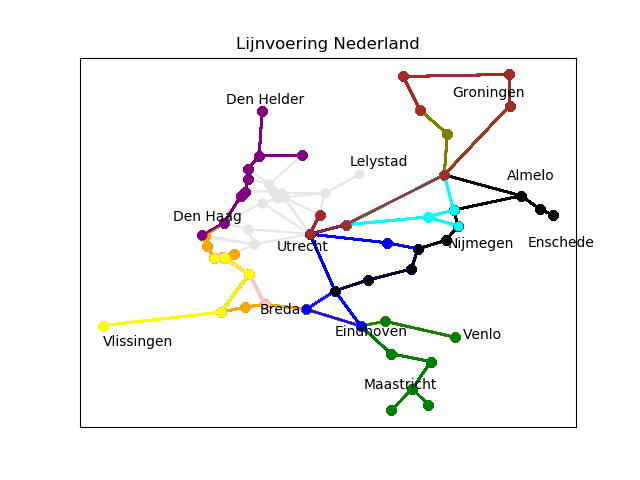
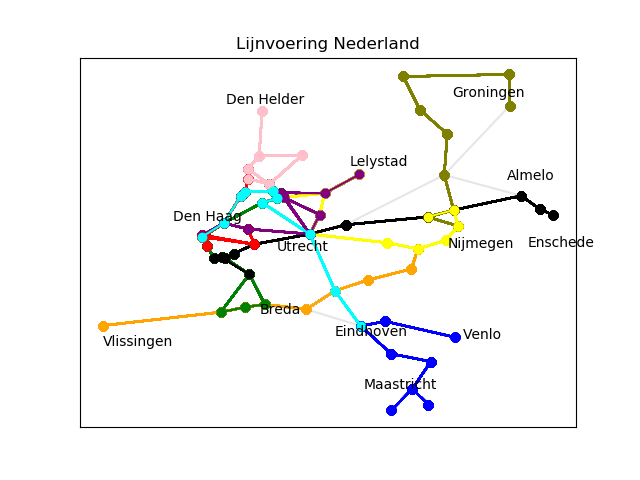
'h'

diff --git a/RailNL/Code/algo/hillclimber3.py b/RailNL/Code/algo/hillclimber3.py
@@ -1,0 +1,110 @@
+import functies.hill2
+import functies.scorefunctie
+import functies.minuten
+import copy
+
+
+def hillclimber3(alle_trajecten1, alle_tijdsduur1, totale_tijdsduur1, trajecten_algemeen1, graph, sporen1, MAX, TOTAAL_SPOREN, score1, HILL2, verbindingen):
+
+    aantal_trajecten = len(alle_trajecten1)
+    totaal_tijd1 = functies.minuten.minuten(alle_tijdsduur1)
+    
+    alle_tijdsduur_def = copy.deepcopy(alle_tijdsduur1)
+    alle_trajecten_def = copy.deepcopy(alle_trajecten1)
+    trajecten_algemeen_def = copy.deepcopy(trajecten_algemeen1)
+
+    totaal_tijd_def = copy.deepcopy(totale_tijdsduur1)
+
+    alle_trajecten2 = copy.deepcopy(alle_trajecten1)
+    
+    sporen = copy.deepcopy(sporen1)
+    
+    trajecten_algemeen = copy.deepcopy(trajecten_algemeen1)
+    alle_tijdsduur = copy.deepcopy(alle_tijdsduur1)
+    
+    nieuw_alle_trajecten = []
+    nieuw_alle_tijden = []
+    
+    
+    for i in range(aantal_trajecten):
+    
+        
+        
+        eigen_traject = copy.deepcopy(alle_trajecten2[i])
+            
+        nieuwe_tijdsduur = copy.deepcopy(alle_tijdsduur[i])
+        
+        score_oud = functies.scorefunctie.score(eigen_traject, nieuwe_tijdsduur, sporen, TOTAAL_SPOREN)
+        
+        sporen1 = copy.deepcopy(sporen)
+
+        for _ in range(HILL2):
+        
+
+            begin_station = alle_trajecten2[i][-1]
+            nieuw_eigen_traject = copy.deepcopy(alle_trajecten2[i])
+            nieuw_nieuw_tijdsduur = copy.deepcopy(alle_tijdsduur[i])
+            eind_sporen = copy.deepcopy(sporen1)
+
+            
+            while (nieuw_nieuw_tijdsduur < MAX):
+            
+                beste_optie = functies.hill2.opties_randomconstr(eind_sporen, graph, trajecten_algemeen, begin_station, nieuw_eigen_traject)
+                
+                nieuw_nieuw_tijdsduur = nieuw_nieuw_tijdsduur + beste_optie[1]
+                
+                eind_sporen = functies.hill2.spoor_toevoegen(eind_sporen, begin_station, beste_optie[0], nieuw_nieuw_tijdsduur)    
+                
+                begin_station = functies.hill2.actuele_station(beste_optie[0])
+                
+                functies.hill2.volgend_spoor(beste_optie[0], nieuw_eigen_traject)
+
+                
+            if nieuw_nieuw_tijdsduur > MAX:
+                
+
+                functies.hill2.pop(trajecten_algemeen, trajecten_algemeen1, eind_sporen, nieuw_eigen_traject)
+
+                nieuw_nieuw_tijdsduur = nieuw_nieuw_tijdsduur - beste_optie[1]
+
+        
+        
+        
+        
+            score_nieuw = functies.scorefunctie.score(nieuw_eigen_traject, nieuw_nieuw_tijdsduur, eind_sporen, TOTAAL_SPOREN)
+        
+        
+            if score_nieuw > score_oud :
+
+                score_oud = score_nieuw
+                eigen_traject = nieuw_eigen_traject
+                
+                sporen = eind_sporen
+                
+                nieuwe_tijdsduur = nieuw_nieuw_tijdsduur
+        
+        
+        
+        nieuw_alle_trajecten.append(eigen_traject)
+        nieuw_alle_tijden.append(nieuwe_tijdsduur)
+
+              
+              
+    trajecten = functies.opschonen.opschonen(nieuw_alle_trajecten, nieuw_alle_tijden, verbindingen)
+
+    nieuw_alle_trajecten = trajecten[0] 
+    nieuw_alle_tijden = trajecten[1] 
+     
+    totaal_tijd = functies.minuten.minuten(nieuw_alle_tijden)
+    score = functies.scorefunctie.score(nieuw_alle_trajecten, totaal_tijd, sporen, TOTAAL_SPOREN)
+
+    
+    return nieuw_alle_trajecten, nieuw_alle_tijden, score, sporen, trajecten_algemeen, totaal_tijd 
+    
+    
+
+
+
+
+
+

diff --git a/RailNL/Code/main2.py b/RailNL/Code/main2.py
@@ -12,7 +12,7 @@ import algo.hillclimber
 import inladen.inladen
 import time
 import visualisatie.visualisatie
-import algo.hillclimber2
+import algo.hillclimber3
 
 
 # Houd de tijd bij. 
@@ -23,13 +23,15 @@ start_time = time.clock()
 
 # AANTAL MINUTEN
 
-HILL = 200000
+HILL = 100000
 
-HILL2 = 500000
+HILL2 = 10000
 
 # Aantal minuten.
-
 MAX = 180
+
+MAX2 = 180
+
 
 
 # Aantal trajecten.
@@ -120,7 +122,7 @@ print(time.clock() - start_time, "seconden")
 
 start_time1 = time.clock()
 
-nieuw_traject = algo.hillclimber2.hillclimber2(alle_trajecten, alle_tijdsduur, totale_tijdsduur, trajecten_algemeen, graph, sporen, MAX, TOTAAL_SPOREN, score, HILL2, verbindingen)
+nieuw_traject = algo.hillclimber3.hillclimber3(alle_trajecten, alle_tijdsduur, totale_tijdsduur, trajecten_algemeen, graph, sporen, MAX2, TOTAAL_SPOREN, score, HILL2, verbindingen)
 
 def_score = nieuw_traject[2]
 def_trajecten = nieuw_traject[0]
@@ -128,6 +130,7 @@ def_tijden = nieuw_traject[1]
 def_sporen = nieuw_traject[3]
 def_trajecten_algemeen = nieuw_traject[4]
 def_totaal_tijd = nieuw_traject[5]
+
 
 
 for i in range(len(def_trajecten)):

diff --git a/RailNL/Code/test.py b/RailNL/Code/test.py
@@ -11,7 +11,7 @@ import functies.minuten
 import algo.hillclimber
 import inladen.inladen
 import time
-import visualisatie.lijnvoeringtest
+import visualisatie.visualisatie
 
 # Houd de tijd bij. 
 start_time = time.clock()
@@ -21,13 +21,13 @@ start_time = time.clock()
 
 # AANTAL MINUTEN
 
-HILL = 1000000
+HILL = 10
 
 # Aantal minuten.
-MAX = 180
+MAX = 0
 
 # Aantal trajecten.
-RANGE = 11
+RANGE = 10
  
 # Te gebruiken CSV's. 
 STATIONS = 'Data/StationsNationaal.csv'
@@ -111,7 +111,7 @@ print()
 print(time.clock() - start_time, "seconden")
 
 
-visualisatie.lijnvoeringtest.visualisatie(alle_trajecten, STATIONS, VERBINDINGEN)
+visualisatie.visualisatie.visualisatie(alle_trajecten, STATIONS, VERBINDINGEN)
 
 
 

diff --git a/RailNL/Code/functies/hill2.py b/RailNL/Code/functies/hill2.py
@@ -20,6 +20,7 @@ def pop(trajecten_algemeen, oud_trajecten_algemeen, sporen, traject):
         a = traject[-1]
         b = traject[-2]
         laatste_verbinding = {b:a}
+        laatste_verbinding2 = {a:b}
         
         pop = traject.pop() 
          
@@ -41,7 +42,7 @@ def pop(trajecten_algemeen, oud_trajecten_algemeen, sporen, traject):
                 trajecten_algemeen.append(pop2)
         
         # Verwijder laatste verbinding uit sporen. 
-        if laatste_verbinding == sporen[-1]:
+        if laatste_verbinding == sporen[-1] or laatste_verbinding2 == sporen[-1]:
             pop3 = sporen.pop()
 
 def spoor_toevoegen(sporen, huidig_station, beste_optie, tijd):

diff --git a/RailNL/Code/algo/hillclimber.py b/RailNL/Code/algo/hillclimber.py
@@ -45,7 +45,7 @@ def hillclimber(score1, alle_trajecten1, alle_tijdsduur1, HILL, RANGE, MAX,\
 
                 else:
                     # Beste optie kiezen aan de hand van de mogelijkheden.
-                    beste_optie = trein.opties_randomconstr(sporen, graph,\
+                    beste_optie = trein.opties_nearest(sporen, graph,\
                             trajecten_algemeen, trein.eindstation[0])
                     
                     # Spoor toevoegen.
